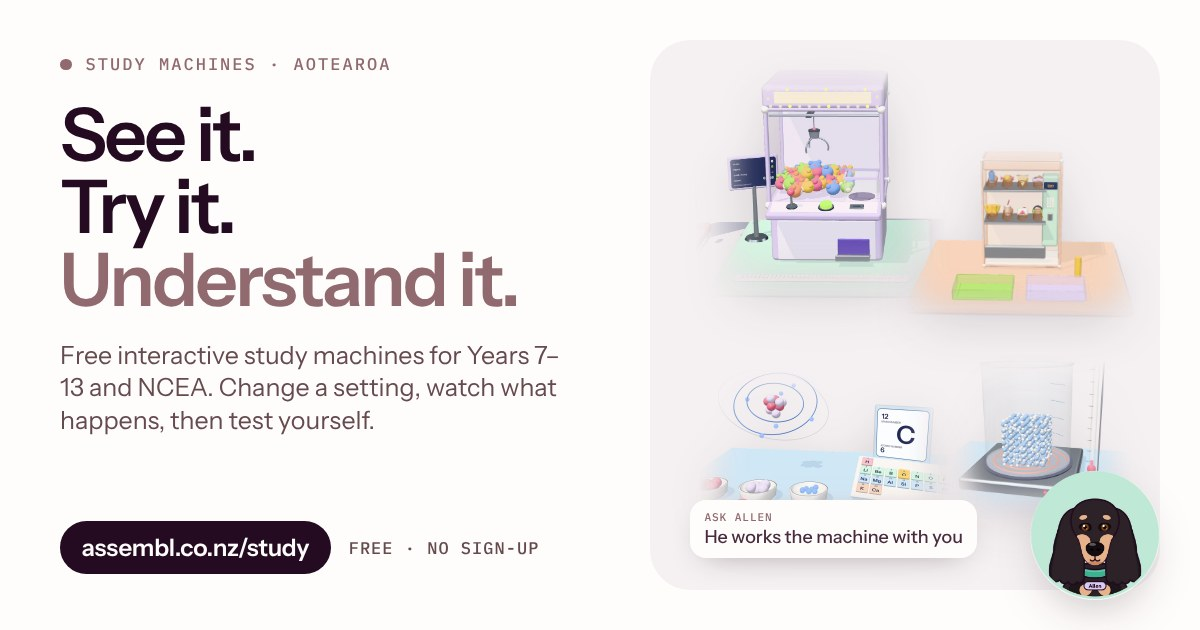
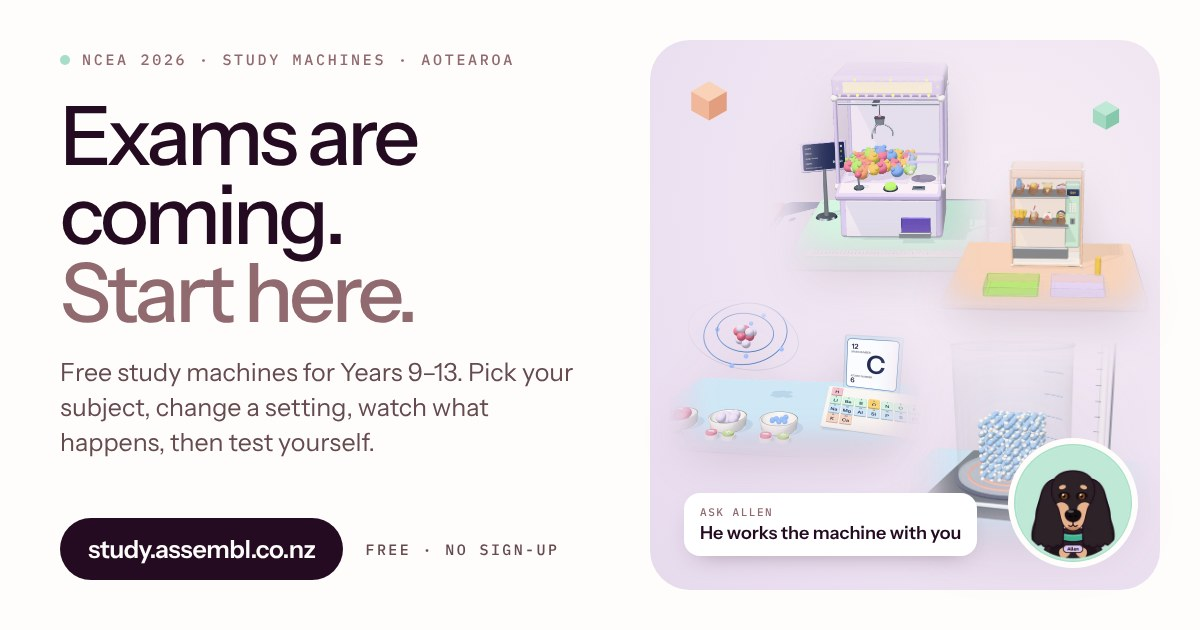
assembly goes live on study.assembl.co.nz: host redirects, exam-week landing, share link, new OG card
Claude-Session: https://claude.ai/code/session_01LigzxEJvB69DzWw7Q4ZtUC

diff --git a/study/index.html b/study/index.html
@@ -1,10 +1,10 @@
-<!doctype html><html lang="en-NZ"><head><meta charset="utf-8"><meta name="viewport" content="width=device-width,initial-scale=1,viewport-fit=cover"><meta property="og:type" content="website"><meta property="og:site_name" content="assembl"><meta property="og:title" content="Study machines · See it. Try it. Understand it."><meta property="og:description" content="Free interactive study machines for Years 7–13 and NCEA, made in Aotearoa. Change a setting, watch what happens, then test yourself. Allen the study buddy works through exam questions with you."><meta property="og:url" content="https://www.assembl.co.nz/study"><meta property="og:image" content="https://assembl-lab.vercel.app/study/share/og.jpg"><meta property="og:image:width" content="1200"><meta property="og:image:height" content="630"><meta property="og:image:alt" content="Study machines on a bench: a claw machine, a vending machine, an atom model and particles, with Allen the dachshund. See it. Try it. Understand it."><meta name="twitter:card" content="summary_large_image"><meta name="twitter:image" content="https://assembl-lab.vercel.app/study/share/og.jpg"><link rel="manifest" href="/study/manifest.webmanifest"><link rel="apple-touch-icon" href="/study/app/apple-touch-icon.png"><link rel="icon" type="image/png" sizes="192x192" href="/study/app/icon-192.png"><style>:root{padding-top:env(safe-area-inset-top,0px);padding-bottom:env(safe-area-inset-bottom,0px)}body{margin:0}img{max-width:100%}[hidden]{display:none!important}</style></head><body>
+<!doctype html><html lang="en-NZ"><head><meta charset="utf-8"><meta name="viewport" content="width=device-width,initial-scale=1,viewport-fit=cover"><meta property="og:type" content="website"><meta property="og:site_name" content="assembl"><meta property="og:title" content="assembly · free NCEA study machines"><meta property="og:description" content="Exam week sorted: free interactive study machines for Years 9–13 and NCEA, made in Aotearoa. Pick your subject, change a setting, watch what happens, then test yourself. Allen works through past exam questions with you."><meta property="og:url" content="https://study.assembl.co.nz/"><link rel="canonical" href="https://study.assembl.co.nz/study/"><meta property="og:image" content="https://assembl-lab.vercel.app/study/share/og.jpg"><meta property="og:image:width" content="1200"><meta property="og:image:height" content="630"><meta property="og:image:alt" content="Exams are coming. Start here. Free study machines for Years 9–13 at study.assembl.co.nz: a claw machine, a vending machine, an atom model and particles on a bench, with Allen the dachshund."><meta name="twitter:card" content="summary_large_image"><meta name="twitter:title" content="assembly · free NCEA study machines"><meta name="twitter:description" content="Free interactive study machines for Years 9–13 and NCEA. Pick your subject, try it, test yourself. Allen works through past exam questions with you."><meta name="twitter:image" content="https://assembl-lab.vercel.app/study/share/og.jpg"><link rel="manifest" href="/study/manifest.webmanifest"><link rel="apple-touch-icon" href="/study/app/apple-touch-icon.png"><link rel="icon" type="image/png" sizes="192x192" href="/study/app/icon-192.png"><style>:root{padding-top:env(safe-area-inset-top,0px);padding-bottom:env(safe-area-inset-bottom,0px)}body{margin:0}img{max-width:100%}[hidden]{display:none!important}</style></head><body>
 <title>assembly · study machines</title>
-<meta name="description" content="Interactive 3D study machines for NCEA and Years 9–10, made in Aotearoa. See how it works, piece by piece, then nail it in the exam.">
+<meta name="description" content="Free interactive study machines for NCEA Levels 1–3 and Years 9–10, made in Aotearoa. Pick your subject, change a setting, watch what happens, then test yourself before the exam.">
 <meta name="theme-color" content="#FFFDFB">
 <link rel="preload" as="image" href="hero/claw.webp" fetchpriority="high">
 <meta name="claude:viewport-fit-sides" content="cover">
-<link rel="stylesheet" href="https://fonts.googleapis.com/css2?family=Instrument+Sans:wght@400;500;600;700&family=IBM+Plex+Mono:wght@400;500&family=Instrument+Serif:ital@0;1&display=swap">
+<link rel="stylesheet" href="https://fonts.googleapis.com/css2?family=Instrument+Sans:wght@400;500;600;700&family=IBM+Plex+Mono:wght@400;500&display=swap">
 <link rel="stylesheet" href="kit.css">
 <style>
 /* Layout: assembly's front room. A top bar, a hero with Allen and the countdown, the machines on the bench,
@@ -187,7 +187,7 @@ section.block>h2,.den-head h2{margin:12px 0 0;font:600 clamp(26px,3.4vw,34px)/1.
   --as-ink:#492B3E;--as-plum:#492B3E;--as-text:#654A4E;--as-muted:#7A6268;
   --as-sun:#ECE4F0;--as-sunsoft:#F5F1F2;--as-onsun:#492B3E;
   --as-display:"Instrument Sans",system-ui,-apple-system,"Segoe UI",sans-serif;
-  --as-serif:"Instrument Serif",Georgia,"Times New Roman",serif;
+  --as-serif:"Instrument Sans",system-ui,-apple-system,"Segoe UI",sans-serif;
   --lilac:#ECE4F0;--chalk-f:#F5F1F2;
   --as-shadow:0 1px 2px rgba(73,43,62,.04),0 16px 36px -26px rgba(73,43,62,.32);
   --as-lift:0 2px 4px rgba(73,43,62,.05),0 26px 46px -28px rgba(73,43,62,.42);
@@ -196,7 +196,7 @@ section.block>h2,.den-head h2{margin:12px 0 0;font:600 clamp(26px,3.4vw,34px)/1.
 html,body{background:var(--as-bg)}
 body{color:var(--as-text);-webkit-font-smoothing:antialiased}
 .wrap{max-width:1240px;gap:22px}
-em{font-family:var(--as-serif);font-style:italic;font-weight:400;letter-spacing:-.01em}
+em{font-family:var(--as-font);font-style:normal;font-weight:500;color:var(--as-rose,#916A70);letter-spacing:-.03em}
 .kick,.hero .kick{margin:0;font:400 11px/1.6 var(--as-mono);letter-spacing:.14em;text-transform:uppercase;color:var(--as-muted);display:flex;align-items:center;gap:10px}
 .live{width:7px;height:7px;border-radius:50%;background:#87A494;box-shadow:0 0 0 4px #87A49422;flex:none}
 
@@ -213,7 +213,7 @@ em{font-family:var(--as-serif);font-style:italic;font-weight:400;letter-spacing:
   background:radial-gradient(120% 120% at 78% 40%,#F6EEF5 0%,#ECE1F1 46%,#E2D5EB 100%);
   box-shadow:0 40px 80px -60px rgba(95,49,78,.55),inset 0 0 0 1px rgba(255,255,255,.6)}
 .hero-copy{position:relative;z-index:3;display:flex;flex-direction:column;justify-content:center;padding:clamp(28px,4.4vw,64px) 0 clamp(28px,4vw,56px) clamp(24px,4.4vw,64px)}
-.hero h1{font:500 clamp(52px,6.4vw,96px)/1 var(--as-font);letter-spacing:-.05em;color:var(--as-ink);margin:22px 0 22px;max-width:none}
+.hero h1{font:500 clamp(42px,4.9vw,72px)/1 var(--as-font);letter-spacing:-.05em;color:var(--as-ink);margin:22px 0 22px;max-width:none}
 .hero h1 em{font-size:1.08em;letter-spacing:-.03em;display:inline-block}
 .hero .intro{margin:0;max-width:40ch;font-size:clamp(16px,1.4vw,18.5px);line-height:1.6;color:var(--as-text)}
 .cta{display:flex;flex-wrap:wrap;gap:8px;margin-top:28px}
@@ -234,6 +234,10 @@ em{font-family:var(--as-serif);font-style:italic;font-weight:400;letter-spacing:
 .allen-chip b{display:block;font:600 15px/1.2 var(--as-font)}
 .allen-chip small{display:block;font:400 10.5px/1.5 var(--as-mono);letter-spacing:.06em;color:var(--as-muted);text-transform:uppercase}
 
+.share{display:flex;flex-wrap:wrap;align-items:center;gap:8px 10px;margin:18px 0 0;font:500 13px/1.4 var(--as-font);color:var(--as-text)}
+.share button{all:unset;cursor:pointer;padding:7px 14px;border-radius:999px;background:rgba(255,255,255,.7);border:1px solid rgba(73,43,62,.18);font:600 13px var(--as-font);color:var(--as-ink)}
+.share button:hover{background:#fff}.share button:focus-visible{outline:2px solid var(--as-focus);outline-offset:2px}
+.share #shareDone{font:400 11px var(--as-mono);letter-spacing:.06em;text-transform:uppercase;color:var(--as-muted)}
 /* the bench: captured frames of the real-time 3D machines (kit3d.js), cut out and floating over a soft plate */
 .hstage{position:relative;min-height:420px;--px:0;--py:0}
 .hplate{position:absolute;left:6%;right:2%;top:30%;bottom:6%;border-radius:50%;background:radial-gradient(closest-side,rgba(255,255,255,.75),rgba(255,255,255,0));filter:blur(6px)}
@@ -264,7 +268,7 @@ em{font-family:var(--as-serif);font-style:italic;font-weight:400;letter-spacing:
 
 /* whakataukī: one quiet line in the serif */
 .whaka{border-left:2px solid var(--as-ink);padding-left:20px;margin:6px 0 0}
-.whaka blockquote{font:400 clamp(22px,2.4vw,30px)/1.25 var(--as-serif);font-style:italic;color:var(--as-ink);letter-spacing:-.005em}
+.whaka blockquote{font:500 clamp(20px,2.2vw,26px)/1.3 var(--as-font);font-style:normal;color:var(--as-ink);letter-spacing:-.02em}
 .whaka figcaption{color:var(--as-text)}
 .whaka cite a{color:var(--as-ink)}
 
@@ -314,8 +318,8 @@ section.block>.kick{margin-top:30px}
   .hero{display:flex;flex-direction:column;min-height:0;padding:28px 0 26px}
   .hero-copy{display:contents}
   .hero .kick{order:1;padding:0 22px}.hero h1{order:2;padding:0 22px}.hero .intro{order:3;padding:0 22px}
-  .hstage{order:4}.cta{order:5;margin:4px 22px 0}.allen-chip{order:6;margin:18px 22px 0}
-  .hero h1{font-size:clamp(46px,12.5vw,72px);margin:14px 0 14px}
+  .hstage{order:4}.cta{order:5;margin:4px 22px 0}.share{order:6;margin:14px 22px 0}.allen-chip{order:7;margin:14px 22px 0}
+  .hero h1{font-size:clamp(38px,10.4vw,60px);margin:14px 0 14px}
   .hstage{min-height:0;height:clamp(290px,80vw,440px);margin:6px 0 10px}
   .x-claw{left:30%;top:0;width:40%}.x-vend{left:0;top:10%;width:36%}.x-part{right:0;top:10%;width:35%}
   .x-vinyl{left:0;top:52%;width:56%}.x-atom{right:0;top:54%;width:46%}
@@ -333,13 +337,13 @@ section.block>.kick{margin-top:30px}
 html[data-lab-frame=study] .top{display:flex;align-items:center;padding:4px 0 14px}html[data-lab-frame=study] .top .as-lock{display:inline-flex}html[data-lab-frame=study] .top .as-word{font-size:21px}html[data-lab-frame=study] .top nav a{padding:8px 14px}
 @media(max-width:520px){html[data-lab-frame=study] .top .as-by{display:none}html[data-lab-frame=study] .top nav{width:auto}html[data-lab-frame=study] .top nav a{padding:8px 9px}}
 html[data-lab-frame=study] body .hero{grid-template-columns:minmax(0,1fr) minmax(0,1.12fr);padding:0;gap:0}
-html[data-lab-frame=study] body .hero h1{font-size:clamp(52px,6.4vw,96px);line-height:1;font-weight:500;max-width:none;margin:22px 0}
+html[data-lab-frame=study] body .hero h1{font-size:clamp(42px,4.9vw,72px);line-height:1;font-weight:500;max-width:none;margin:22px 0}
 html[data-lab-frame=study] body .hero .kick{font-size:11px;line-height:1.6}
 html[data-lab-frame=study] body .hero .bench-k{font-size:10px;line-height:1.4}
 html[data-lab-frame=study] body .hero .intro{font-size:clamp(16px,1.4vw,18.5px);line-height:1.6}
 @media (max-width:860px){
   html[data-lab-frame=study] body .hero{padding:28px 0 26px}
-  html[data-lab-frame=study] body .hero h1{font-size:clamp(46px,12.5vw,72px);margin:14px 0}
+  html[data-lab-frame=study] body .hero h1{font-size:clamp(38px,10.4vw,60px);margin:14px 0}
 }
 
 </style>
@@ -354,10 +358,11 @@ html[data-lab-frame=study] body .hero .intro{font-size:clamp(16px,1.4vw,18.5px);
 
   <section class="hero" aria-labelledby="h-hero">
     <div class="hero-copy">
-      <p class="kick"><span class="live" aria-hidden="true"></span>Study machines · Aotearoa</p>
-      <h1 id="h-hero">See it. Try it.<br><em>Understand it.</em></h1>
-      <p class="intro"><span lang="mi">Kia ora.</span> Explore 36 familiar machines plus Heart Pump Lab. Choose your year, change a setting and test an idea.</p>
-      <div class="cta"><a class="hb primary" href="#find">Find a machine <i class="cube" aria-hidden="true"></i></a><a class="hb" href="#h-index">Find my exams</a></div>
+      <p class="kick"><span class="live" aria-hidden="true"></span><span id="heroKick">NCEA 2026 · study machines · Aotearoa</span></p>
+      <h1 id="h-hero"><span id="heroLine">Exams start Tuesday 10 November.</span><br><em>Start here.</em></h1>
+      <p class="intro"><span lang="mi">Kia ora.</span> Free study machines for Years 9–13: pick your subject, change a setting, watch what happens, then test yourself. Allen works through past exam questions with you. <span id="heroWhen"></span></p>
+      <div class="cta"><a class="hb primary" href="#find">Pick your subject <i class="cube" aria-hidden="true"></i></a><a class="hb" href="#h-index">My exam dates</a></div>
+      <p class="share"><span>Share this with your class:</span> <button type="button" id="shareLink" aria-label="Copy the link to this page">Copy link</button><span id="shareDone" role="status" aria-live="polite"></span></p>
       <a class="allen-chip" href="#den" id="heroAllen"><img src="allen/pastel-mint-mark.webp" alt="" width="256" height="256" decoding="async"><span><b id="heroName">Allen</b><small>Your study sidekick · visit his den</small></span></a>
     </div>
     <div class="hstage" id="bench" role="group" aria-label="Five of the study machines">
@@ -378,8 +383,8 @@ html[data-lab-frame=study] body .hero .intro{font-size:clamp(16px,1.4vw,18.5px);
 
 
 <section class="finder" id="find" aria-labelledby="find-h">
-  <h2 id="find-h">What are you studying?</h2>
-  <p class="find-sub">Type a topic, or tap your subject. Every machine works the same way: pick a topic, change the controls, read the notes, test yourself.</p>
+  <h2 id="find-h">Pick your subject</h2>
+  <p class="find-sub">Tap your subject or type a topic. Every machine works the same way: pick a topic, change the controls, read the notes, test yourself.</p>
   <label class="find-q"><span class="sr-only">Search the study machines</span><input id="find-q" type="search" placeholder="Try graphs, government, probability, forces, poetry…" autocomplete="off"></label>
   <div class="find-subj" id="find-subj" role="group" aria-label="Subjects"></div>
   <p class="find-n" id="find-n" role="status" aria-live="polite"></p>
@@ -395,24 +400,24 @@ html[data-lab-frame=study] body .hero .intro{font-size:clamp(16px,1.4vw,18.5px);
       <div class="cta lab-study-more"><a class="btn big" href="#h-index">Find my exams</a><a class="btn big" href="year9/">Year 9 studio</a><a class="btn big" href="patterns/">Pattern studio</a><a class="btn big" href="#h-creative">Creative instruments</a></div>
   <section class="lab-study-method" aria-label="A way to learn"><div><strong>01 Explore</strong><p>Look around. Find a question worth testing.</p></div><div><strong>02 Predict</strong><p>Say what you expect before changing anything.</p></div><div><strong>03 Try it</strong><p>Change one thing. Look for what moves.</p></div><div><strong>04 Explain</strong><p>Use the model to explain what you found.</p></div></section>
 <section class="study-discover" aria-labelledby="h-discover">
-    <a href="/next/#zoo" aria-label="Open the interactive 3D Habitat designer"><img src="thumbnails/habitat.jpg" alt="A captured view of the 3D habitat: a kākāpō model among trees, water, shelter and logs on a mint model base" width="800" height="600" loading="lazy"></a>
-    <div class="study-discover-copy"><span class="eyebrow">Make something · Next Lab</span><h2 id="h-discover">Build a world.<br>Change what happens.</h2><p>Turn the habitat around. Add shelter, water and a quiet retreat, then compare your choices. A real 3D design model, with an honest drawing fallback.</p><a class="btn primary" href="/next/#zoo">Open Habitat designer →</a><small><b>What is Next Lab?</b> Fourteen making studios, already here: habitats, optics, music and more. Start with one experiment and see what your choices change. Habitat is a learning model, not animal-care guidance.</small></div>
+    <a href="https://lab.assembl.co.nz/next/#zoo" aria-label="Open the interactive 3D Habitat designer"><img src="thumbnails/habitat.jpg" alt="A captured view of the 3D habitat: a kākāpō model among trees, water, shelter and logs on a mint model base" width="800" height="600" loading="lazy"></a>
+    <div class="study-discover-copy"><span class="eyebrow">Make something · Next Lab</span><h2 id="h-discover">Build a world.<br>Change what happens.</h2><p>Turn the habitat around. Add shelter, water and a quiet retreat, then compare your choices. A real 3D design model, with an honest drawing fallback.</p><a class="btn primary" href="https://lab.assembl.co.nz/next/#zoo">Open Habitat designer →</a><small><b>What is Next Lab?</b> Fourteen making studios, already here: habitats, optics, music and more. Start with one experiment and see what your choices change. Habitat is a learning model, not animal-care guidance.</small></div>
   </section>
 
   <section class="creative-instruments" aria-labelledby="h-creative">
     <header><span class="eyebrow">Creative instruments · open-ended making</span><h2 id="h-creative">What happens if you…?</h2><p>Three playful instruments for pulling ideas into shape. Start with a material, make a move, and see what surprises you.</p></header>
     <div class="creative-grid">
-      <a class="creative-card" href="/instruments/reality-remix/">
+      <a class="creative-card" href="https://lab.assembl.co.nz/instruments/reality-remix/">
         <img src="instrument-previews/reality-remix.jpg" alt="" width="800" height="500" loading="lazy" decoding="async">
         <div class="creative-copy"><h3>Reality Remix</h3><p>Pull, dissolve and swirl a colourful point cloud into a new composition.</p></div>
         <div class="creative-action"><span>Sculpt with colour</span><b>Play →</b></div>
       </a>
-      <a class="creative-card" href="/instruments/soft-matter/">
+      <a class="creative-card" href="https://lab.assembl.co.nz/instruments/soft-matter/">
         <img src="instrument-previews/soft-matter.jpg" alt="" width="800" height="500" loading="lazy" decoding="async">
         <div class="creative-copy"><h3>Soft Matter</h3><p>Grab, stretch and squash a soft shape. See how the material responds.</p></div>
         <div class="creative-action"><span>Feel the physics</span><b>Play →</b></div>
       </a>
-      <a class="creative-card" href="/instruments/impossible-objects/">
+      <a class="creative-card" href="https://lab.assembl.co.nz/instruments/impossible-objects/">
         <img src="instrument-previews/impossible-objects.jpg" alt="" width="800" height="500" loading="lazy" decoding="async">
         <div class="creative-copy"><h3>Impossible Objects</h3><p>Cut, combine and twist a solid into something unexpected.</p></div>
         <div class="creative-action"><span>Build a curious object</span><b>Play →</b></div>
@@ -476,6 +481,19 @@ $("lock").innerHTML=K.lockup;$("foot").innerHTML=K.lockup+`<span>assembly is mad
   $("count").innerHTML=d>0?`<span class="num">${d}</span><span class="txt">days until NCEA exams start<span>${fmtDay(D.examsStart)} to ${fmtDay(D.examsEnd)} 2026 · 9:30am and 2pm sessions</span></span>`
    :e>=0?`<span class="num">${e}</span><span class="txt">days of NCEA exams left<span>Last exam ${fmtDay(D.examsEnd)}</span></span>`:`<span class="txt">2026 NCEA exams are finished. Next year's start ${esc(D.next||"in November")}.</span>`})();
 
+// exam-week headline: driven by the dates in data.js, never hard-coded
+(function(){const d=days(D.examsStart),e=days(D.examsEnd),L=$("heroLine"),W=$("heroWhen"),Kk=$("heroKick");
+  const longDay=iso=>new Date(iso).toLocaleDateString("en-NZ",{...NZ,weekday:"long",day:"numeric",month:"long"}).replace(",","");
+  const togo=d>=6&&d<=8?"One week to go.":d===1?"Tomorrow.":`${d} days to go.`;
+  if(d>1){L.textContent=`Exams start ${longDay(D.examsStart)}.`;W.textContent=`${togo} NCEA papers run ${fmtDay(D.examsStart)} to ${fmtDay(D.examsEnd)}.`;Kk.textContent=`NCEA 2026 · ${d>=6&&d<=8?"one week to go":d+" days to go"}`}
+  else if(d===1){L.textContent="Exams start tomorrow.";W.textContent=`First paper ${longDay(D.examsStart)}, 9:30am.`;Kk.textContent="NCEA 2026 · exams start tomorrow"}
+  else if(e>=0){L.textContent="Exams are on.";W.textContent=`${e} day${e===1?"":"s"} of NCEA exams left. Last paper ${fmtDay(D.examsEnd)}.`;Kk.textContent="NCEA 2026 · exams in progress"}
+  else{L.textContent="Exams are done.";W.textContent=`Next year's start ${esc(D.next||"in November")}.`;Kk.textContent="Study machines · Aotearoa"}})();
+// share this: copies the short study address (or this page's own address when it is served from elsewhere)
+(function(){const b=$("shareLink"),ok=$("shareDone");if(!b)return;
+  const url=location.hostname==="study.assembl.co.nz"?"https://study.assembl.co.nz/":location.origin+"/study/";
+  b.onclick=async()=>{try{if(navigator.share&&matchMedia("(pointer: coarse)").matches){await navigator.share({title:"assembly · free NCEA study machines",url});ok.textContent="Shared";return}
+      await navigator.clipboard.writeText(url);ok.textContent="Copied · "+url.replace(/^https:\/\//,"")}catch(err){if(err&&err.name==="AbortError")return;ok.textContent=url}}})();
 // study streak (this device), plus the places it unlocks for Allen
 const LOG=K.readLog(), ST=A.state(LOG);
 (function(){const L=LOG;

diff --git a/lab/navigation.js b/lab/navigation.js
@@ -3,6 +3,8 @@ if (!location.pathname.startsWith('/study/patterns/') && !location.pathname.star
 (() => {
 if(window.__labEmbed)return;
 const path=location.pathname;
+// on study.assembl.co.nz the root redirects into the study, so links back to the lab go to the lab's own address
+const LAB=location.hostname==='study.assembl.co.nz'?'https://lab.assembl.co.nz':'';
 // one lab nav for /, /discover/ and /study/: / and /discover/ ship this markup static, everything else gets it here
 const scoped=path==='/study/'||path==='/study/index.html'||path.startsWith('/study/year9/')||path.startsWith('/next/');
 if(!document.querySelector('link[href^="/lab/presentation.css"]')&&!document.querySelector('link[href^="/lab/catalogue-home.css"]')){const css=document.createElement('link');css.rel='stylesheet';css.href='/lab/presentation.css';document.head.append(css)}
@@ -10,7 +12,7 @@ if(scoped)document.documentElement.dataset.labFrame=path.startsWith('/next/')?'n
 const here=path==='/'||path==='/index.html'?'explore':path.startsWith('/discover/')||path.startsWith('/instruments/')||path.startsWith('/study/patterns/')||path.startsWith('/study/bedazzle/')||path.startsWith('/next/')||path.startsWith('/ar/')||path.startsWith('/study/print/')?'discover':path.startsWith('/study/')?'study':'';
 let nav=document.getElementById('al-nav');
 if(!nav){nav=document.createElement('nav');nav.id='al-nav';nav.setAttribute('aria-label','assembl lab');
-  nav.innerHTML=`<a class="al-brand" href="/" aria-label="assembl lab home"><svg viewBox="0 0 32 32" aria-hidden="true"><path d="M4 8 16 1l12 7v15l-12 8L4 23Z M4 8l12 8 12-8 M16 16v15"/></svg><b>assembl</b><span>lab</span></a><div class="al-destinations"><a data-k="explore" href="/#explore"><span class="al-long">The experiments</span><span class="al-short">Experiments</span></a><a data-k="discover" href="/discover/"><span class="al-long">Learn &amp; create</span><span class="al-short">Create</span></a><a data-k="study" href="/study/"><span class="al-long">Study machines</span><span class="al-short">Study</span></a><a data-k="about" href="/#about"><span class="al-long">About the lab</span><span class="al-short">About</span></a></div><a class="al-cta" href="https://assembl.co.nz/" target="_top"><span class="al-long">Build with assembl</span><span class="al-short">Build with us</span><i aria-hidden="true"></i></a>`;
+  nav.innerHTML=`<a class="al-brand" href="${LAB}/" aria-label="assembl lab home"><svg viewBox="0 0 32 32" aria-hidden="true"><path d="M4 8 16 1l12 7v15l-12 8L4 23Z M4 8l12 8 12-8 M16 16v15"/></svg><b>assembl</b><span>lab</span></a><div class="al-destinations"><a data-k="explore" href="${LAB}/#explore"><span class="al-long">The experiments</span><span class="al-short">Experiments</span></a><a data-k="discover" href="${LAB}/discover/"><span class="al-long">Learn &amp; create</span><span class="al-short">Create</span></a><a data-k="study" href="/study/"><span class="al-long">Study machines</span><span class="al-short">Study</span></a><a data-k="about" href="${LAB}/#about"><span class="al-long">About the lab</span><span class="al-short">About</span></a></div><a class="al-cta" href="https://assembl.co.nz/" target="_top"><span class="al-long">Build with assembl</span><span class="al-short">Build with us</span><i aria-hidden="true"></i></a>`;
   document.body.prepend(nav)}
 nav.querySelectorAll('.al-destinations a').forEach(a=>{if(a.dataset.k===here)a.setAttribute('aria-current','page');else a.removeAttribute('aria-current')});
 })();
